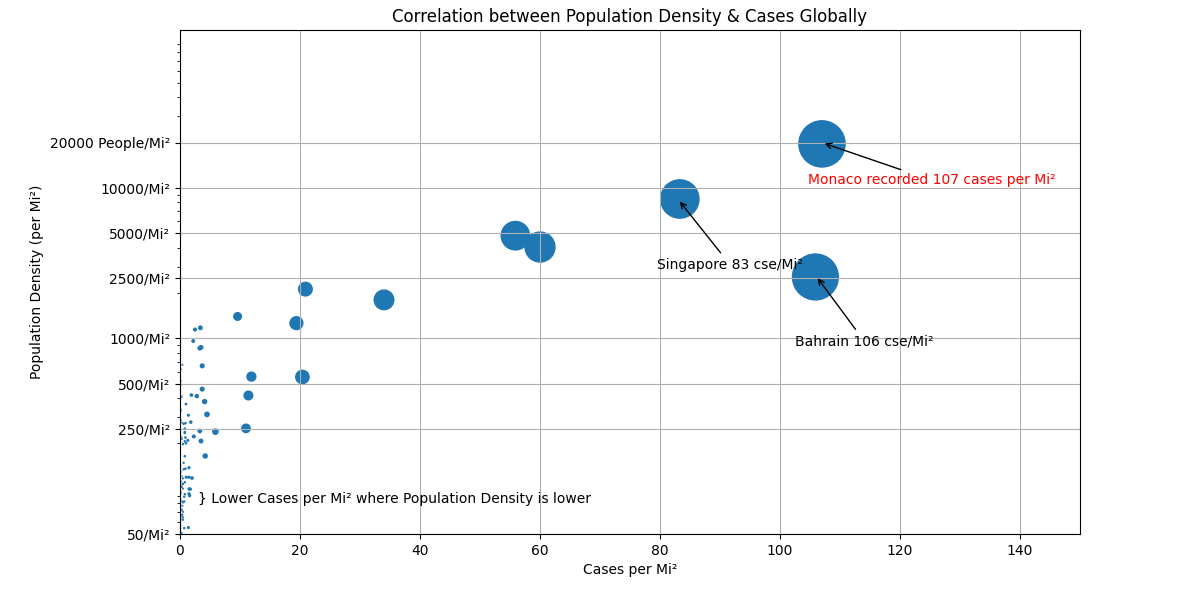
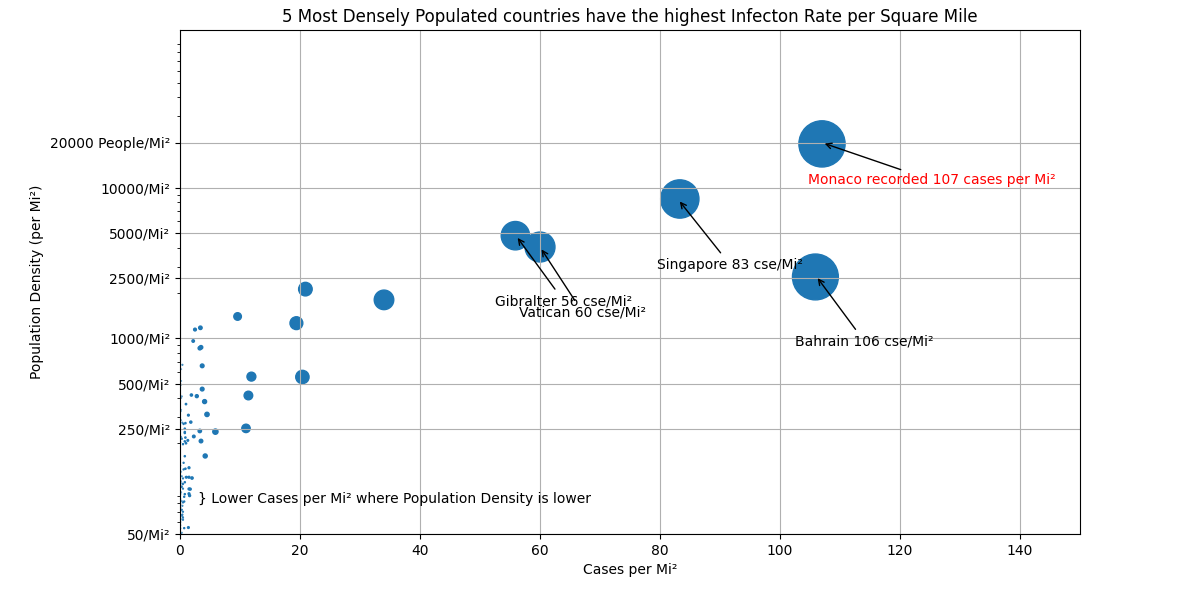
01.02 Final Commit

Changed region(s): [[0.2467, 0.0, 0.8017, 0.06], [0.4008, 0.48, 0.555, 0.54], [0.4317, 0.42, 0.4625, 0.45]]

diff --git a/Colm_OKane_UCD_Project/Colm O'Kane Main Code File.py b/Colm_OKane_UCD_Project/Colm O'Kane Main Code File.py
@@ -127,7 +127,6 @@ RDCD.fillna(0)
 RDCD['Econ_Block'] = RDCD['Econ_Block'].fillna('All_Others')
 
 
-
 # Create a Weekly Dataset to using Wednesday as the filter to give a weekly reporting day
 RDCD=RDCD.query('day == "Wednesday"')
 
@@ -135,33 +134,38 @@ RDCD=RDCD.query('day == "Wednesday"')
 RDCD['Weekly_Cases']=(RDCD.groupby('iso_code')['total_cases'].diff())
 RDCD['Weekly_Deaths']=(RDCD.groupby('iso_code')['total_deaths'].diff())
 
-RDCD['Weekly_Deaths'].fillna(0) #not doing anything
+RDCD['Weekly_Deaths'].fillna(0)
 
-#Need to fix these in each graph using them
-#RDCD['DeathsxCases'] = (RDCD['Weekly_Deaths'] / RDCD['Weekly_Cases']).round(1)
-#RDCD['Deaths_%_Cases'] = (RDCD['Weekly_Deaths']*100 / RDCD['Weekly_Cases']).round(1)
+#filter the data set for relevant dates
 RDCD=RDCD.query("DATE >= '2020-01-07' and DATE <='2020-09-30'")
-print(RDCD)
-print(RDCD.isna().any())
-print(RDCD.isna().sum())
-print(RDCD.dtypes)
-
 
 #output this to csv
 RDCD.to_csv('RDCDbasechecking.csv')
 
 # ***** New csv basefile
 RDCD1 = pd.read_csv('RDCDbasechecking.csv')
-#opportunity here to read in certain columns
-#del RDCD1['Country_y']
-#del RDCD1['Unnamed: 0']
-
+RDCD1=RDCD1.query("location != 'Hong Kong'")
+print(RDCD1.columns)
+#(RDCD1.isna().any())
+#print(RDCD1.isna().sum())
 #print(RDCD1.dtypes)
 
-#group=(RDCD1.groupby('iso_code')['Week_Num'].count())
-#print(group)
-#select final date range to analyse NOT NEEDED NOW
-#RDCD1=RDCD1.query("DATE_RD >= '2020-01-07' and DATE_RD <='2020-09-30'")
+#opportunity here to read in certain columns
+del RDCD1['dayz']
+del RDCD1['Country_y']
+del RDCD1['human_development_index']
+del RDCD1['Country_x']
+del RDCD1['Area (km²)']
+del RDCD1['gdp_per_capita']
+del RDCD1['Unnamed: 0']
+del RDCD1['Wednesdays']
+del RDCD1['Country']
 
+
+print(RDCD1.columns)
+#(RDCD1.isna().any())
+print(RDCD1.isna().sum())
+#print(RDCD1.dtypes)
 #output this to csv
-RDCD1.to_csv('RDCDFinal.csv') #being used by subsetting .loc to create Key_columns_Only.csv
+
+RDCD1.to_csv('RDCDFinal.csv')

diff --git a/Colm_OKane_UCD_Project/Correlation between Global Population Density & Cases code.py b/Colm_OKane_UCD_Project/Correlation between Global Population Density & Cases code.py
@@ -27,17 +27,12 @@ plt.scatter(data3a['Cases_x_Area'], data2a['PopMi2'], s=data3a['Cases_x_Area']**
 
 plt.xlabel('Cases per Mi²')
 plt.ylabel('Population Density (per Mi²)')
-plt.title('Correlation between Population Density & Cases Globally')
-plt.xlim(0, 150) #to set the axis ...xlim for x axis
-#plt.xticks([1000, 10000, 100000],['1k', '10k', '100k'])
+plt.title('5 Most Densely Populated countries have the highest Infecton Rate per Square Mile', wrap=True)
+plt.xlim(0, 150)
 plt.yscale('log')
-#plt.ylim(0, 25000) #to set the axis ...xlim for x axis
 plt.subplots_adjust(top=0.95, left=0.15)
-
 plt.yticks([50, 250, 500, 1000, 2500, 5000, 10000, 20000],['50/Mi²','250/Mi²', '500/Mi²', '1000/Mi²', '2500/Mi²', '5000/Mi²', '10000/Mi²', '20000 People/Mi²'])
-
 plt.grid(True)
-# Additional customizations
 ax.annotate('Monaco recorded 107 cases per Mi²', xy=(107, 20000),  xycoords='data',
                 xytext=(-10, -30), textcoords='offset points',
                 arrowprops=dict(arrowstyle="->"), wrap=True, color='red')
@@ -47,9 +42,14 @@ ax.annotate('Bahrain 106 cse/Mi²', xy=(106, 2600),  xycoords='data',
 ax.annotate('Singapore 83 cse/Mi²', xy=(83, 8400),  xycoords='data',
                 xytext=(-15, -50), textcoords='offset points',
                 arrowprops=dict(arrowstyle="->"), wrap=True )
+ax.annotate('Vatican 60 cse/Mi²', xy=(60, 4045),  xycoords='data',
+                xytext=(-15, -50), textcoords='offset points',
+                arrowprops=dict(arrowstyle="->"), wrap=True )
+ax.annotate('Gibralter 56 cse/Mi²', xy=(56, 4813),  xycoords='data',
+                xytext=(-15, -50), textcoords='offset points',
+                arrowprops=dict(arrowstyle="->"), wrap=True )
 
 plt.text(3, 80, '} Lower Cases per Mi² where Population Density is lower')
-
 plt.show()
 fig.savefig('Correlation between Population Density & Cases Globally.png')
 plt.close()
